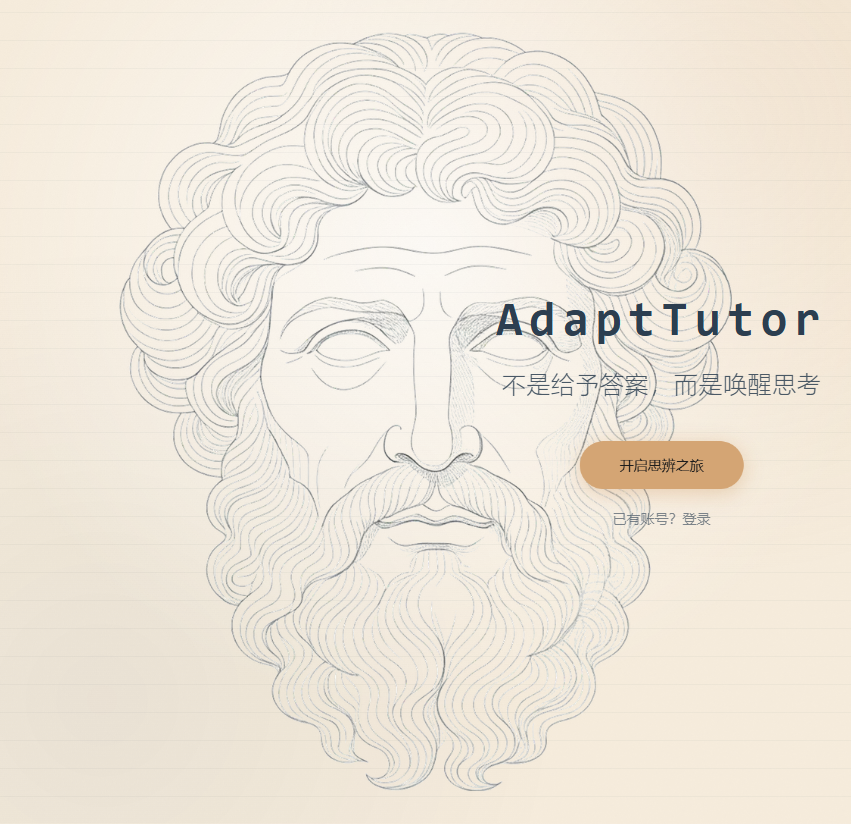
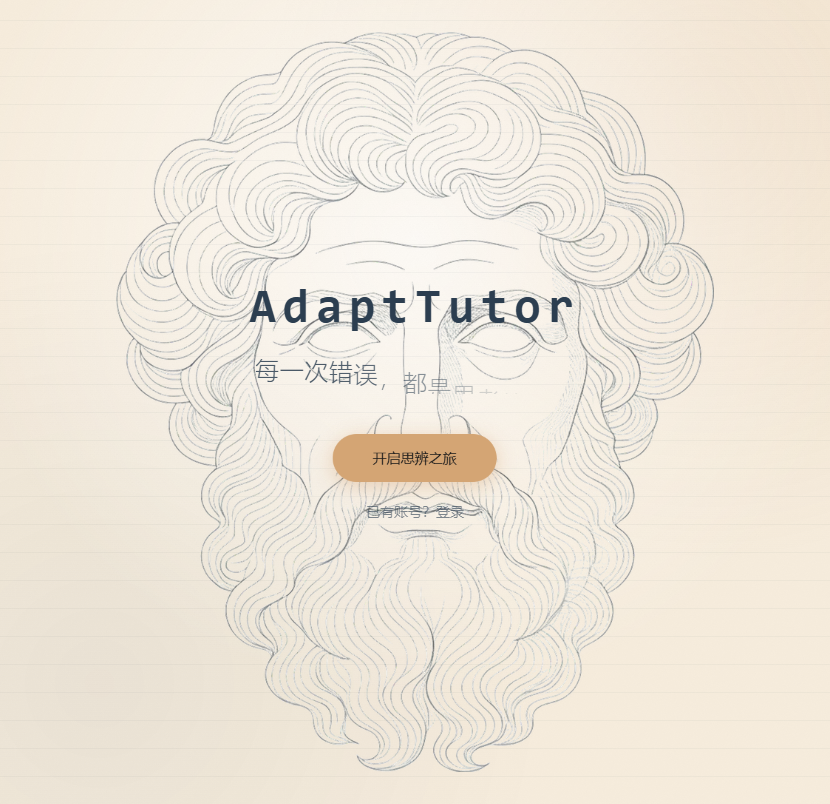
M6.1 fix: 欢迎页三特效修正 - BlobCursor 容器 relative w-full h-full → fixed inset-0（h-full 在 min-h-screen 父级解析为 0，墨点被裁剪不可见 + 容器占位导致文字不居中） - 轮换 transition spring → tween easeInOut（衔接更顺滑），rotationInterval 6s→7s - 副标题加 min-h 固定高度（句子长短不同防布局跳动） 实测：5 墨点跟随（gsap 驱动）、文字居中恢复、轮换高度稳定

diff --git a/frontend/app/page.tsx b/frontend/app/page.tsx
@@ -104,11 +104,11 @@ export default function WelcomePage() {
         {showTitle && (
           <RotatingText
             texts={TITLES}
-            mainClassName="welcome-fade mt-6 text-xl font-light leading-relaxed tracking-wide sm:text-2xl"
+            mainClassName="welcome-fade mt-6 min-h-[2.25rem] text-xl font-light leading-relaxed tracking-wide sm:min-h-[2.5rem] sm:text-2xl"
             splitLevelClassName="overflow-hidden pb-0.5"
             staggerDuration={0.04}
-            rotationInterval={6000}
-            transition={{ type: "spring", stiffness: 80, damping: 20 }}
+            rotationInterval={7000}
+            transition={{ type: "tween", duration: 0.45, ease: "easeInOut" }}
             style={{ color: "rgba(44,62,80,0.85)" }}
           />
         )}

diff --git a/frontend/components/reactbits/BlobCursor.tsx b/frontend/components/reactbits/BlobCursor.tsx
@@ -93,7 +93,7 @@ export default function BlobCursor({
       ref={containerRef}
       onMouseMove={handleMove}
       onTouchMove={handleMove}
-      className="relative top-0 left-0 w-full h-full"
+      className="pointer-events-none fixed inset-0 top-0 left-0"
       style={{ zIndex }}
     >
       {useFilter && (
